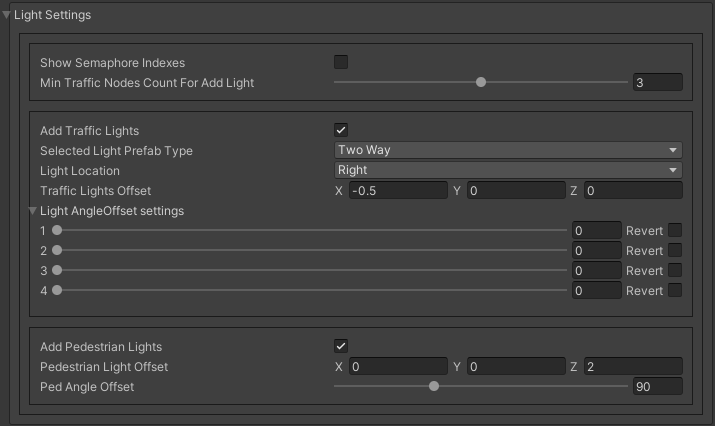
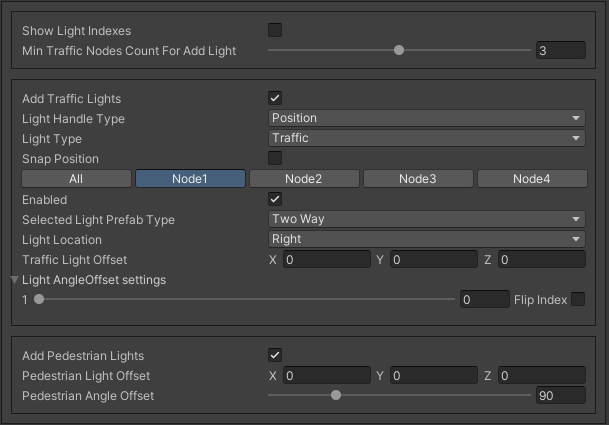
up

Changed region(s): [[0.0, 0.0, 0.9984, 0.9788]]

diff --git a/docs/source/pathCreator.rst b/docs/source/pathCreator.rst
@@ -16,7 +16,7 @@ How To Use
 	
 #. Select the :ref:`source traffic node <trafficNode>` and :ref:`target traffic node <trafficNode>` in the scene (:ref:`example <pathCreatorExamples>`).
 #. Customize new :ref:`path settings <pathCreatorPathSettings>`.
-#. Select the desired `Connection Mode Type` (:ref:`connection settings <pathCreatorConnectionSettings>`).
+#. Select the desired `Connection Type` (:ref:`connection settings <pathCreatorConnectionSettings>`).
 #. Customize `Source` & `Target` :ref:`connection side <trafficNodeConnectionInfo>`, so that the path is positioned correctly (:ref:`example <pathCreatorExamples>`) (:ref:`connection settings <pathCreatorConnectionSettings>`).
 #. Click the `Create` button.
 #. :ref:`Customize <pathCustomize>` the created :ref:`paths <path>`.
@@ -65,22 +65,24 @@ Connection Settings
 
 	.. image:: /images/road/trafficNode/pathCreator/ConnectionSettings.png
 	
-**Connection mode type:** 
-	* **Single connect** : only 1 :ref:`path <path>` is created.
-	* **Direction connect** : :ref:`paths <path>` of all lanes are created.
-	
 **Connection type:** 
-	* **Create only if not exist** : :ref:`path <path>` will be created only if the :ref:`path <path>` has not been created before.
-	* **Allow override** : :ref:`path <path>` will be overwritten if created earlier.
+	* **Single connect** : only 1 :ref:`path <path>` is created.
+	* **One direction connect** : :ref:`paths <path>` of all lanes are created for one side.
+	* **Two direction connect** : :ref:`paths <path>` of all lanes are created for two sides **[New]**.
 	
-| **Auto detect side** : when selecting nodes, the selected :ref:`sides <trafficNodeConnectionInfo>` will be automatically detected
+**Override type:** 
+	* **Not allowed** : :ref:`path <path>` will be created only if the :ref:`path <path>` has not been created before.
+	* **Allowed** : :ref:`path <path>` will be overwritten if created earlier.
+	
+| **Auto detect side** : when selecting nodes, the selected :ref:`sides <trafficNodeConnectionInfo>` will be automatically detected.
+| **Auto switch type** : automatically switch connection type after selecting nodes depending on connection sides.
 | **Connect same side** : target :ref:`side <trafficNodeConnectionInfo>` will be the same as source :ref:`side <trafficNodeConnectionInfo>`.
 
-**Source connection type** : 
+**Source node side** : 
 	* **Default side** : selected :ref:`right side <trafficNodeConnectionInfo>` point in the source :ref:`traffic node <trafficNode>`.
 	* **External side** : selected :ref:`left side <trafficNodeConnectionInfo>` point in the source :ref:`traffic node <trafficNode>`.
 	
-**Target connection type** : 
+**Target node side** : 
 	* **Default side** : selected :ref:`right side <trafficNodeConnectionInfo>` point in the target :ref:`traffic node <trafficNode>`.
 	* **External side** : selected :ref:`left side <trafficNodeConnectionInfo>` point in the target :ref:`traffic node <trafficNode>`.
 	

diff --git a/docs/source/roadSegmentCreator.rst b/docs/source/roadSegmentCreator.rst
@@ -428,6 +428,14 @@ Light settings
 	
 `Youtube tutorial. <https://youtu.be/r85kMJ4BL5E>`_
 	
+How To Use
+""""""""""""""
+
+#. Turn on traffic light option.
+#. Select `Light prefab type`.
+#. Set the traffic light offset or enable `Light handle type`.
+#. If you want to configure the traffic lights individually, select the `Node` button.
+	
 Traffic lights
 """"""""""""""
 
@@ -435,6 +443,11 @@ Traffic lights
 | **Min TrafficNodes count for add light** : minimum number of :ref:`traffic nodes <trafficNode>` in the segment to add traffic light.
 | **Add traffic light** : add traffic light to the segment.
 
+**Light handle type:** 
+	* **None**
+	* **Position** : enable position handle for traffic lights.
+	* **Rotation** : enable rotation handle for traffic lights.
+	
 **Selected light prefab type** : prefab of the traffic light to be added [can be changed in creator settings].
 	* **Oneway**
 	* **Two way**
@@ -446,9 +459,10 @@ Traffic lights
 	* **Right left** : will be added on both sides of the :ref:`traffic node <trafficNode>`.
 	
 | **Traffic lights offset** : local traffic light offset relative to :ref:`traffic node <trafficNode>`.
-**Light angle offset settings** :
-	* **Angle index** : rotation angle index (0 - 0°, 1 - 90°, 2 - 180°, 3 - 270°).
-	* **Revert** :
+
+**Light angle offset settings:** 
+	* **Angle offset** : local rotation angle of the traffic light.
+	* **Flip index** : switches to the opposite :ref:`light index <trafficLightIndex>` in the traffic light.
 	
 Pedestrian lights
 """"""""""""""

diff --git a/docs/source/changelog.rst b/docs/source/changelog.rst
@@ -3,6 +3,28 @@
 Change Log
 ************
 
+[1.0.6] - 19-04-2024
+------------
+
+Added
+~~~~~~~~~~~~
+
+* New connection type for :ref:`Path Creator <pathCreator>`.
+* New traffic light customizations for Road Segment Creator tool.
+* New crosswalk node shape option for Road Segment Creator.
+* New state utils methods for pedestrian.
+
+Fixed
+~~~~~~~~~~~~
+
+* Fixed path connection for Path Creator in some cases
+* Fix for traffic light duplication when editing a road segment in the subscene.
+
+Changed
+~~~~~~~~~~~~
+
+* UX improvement for Path Creator.
+
 [1.0.5] - 15-04-2024
 ------------
 
